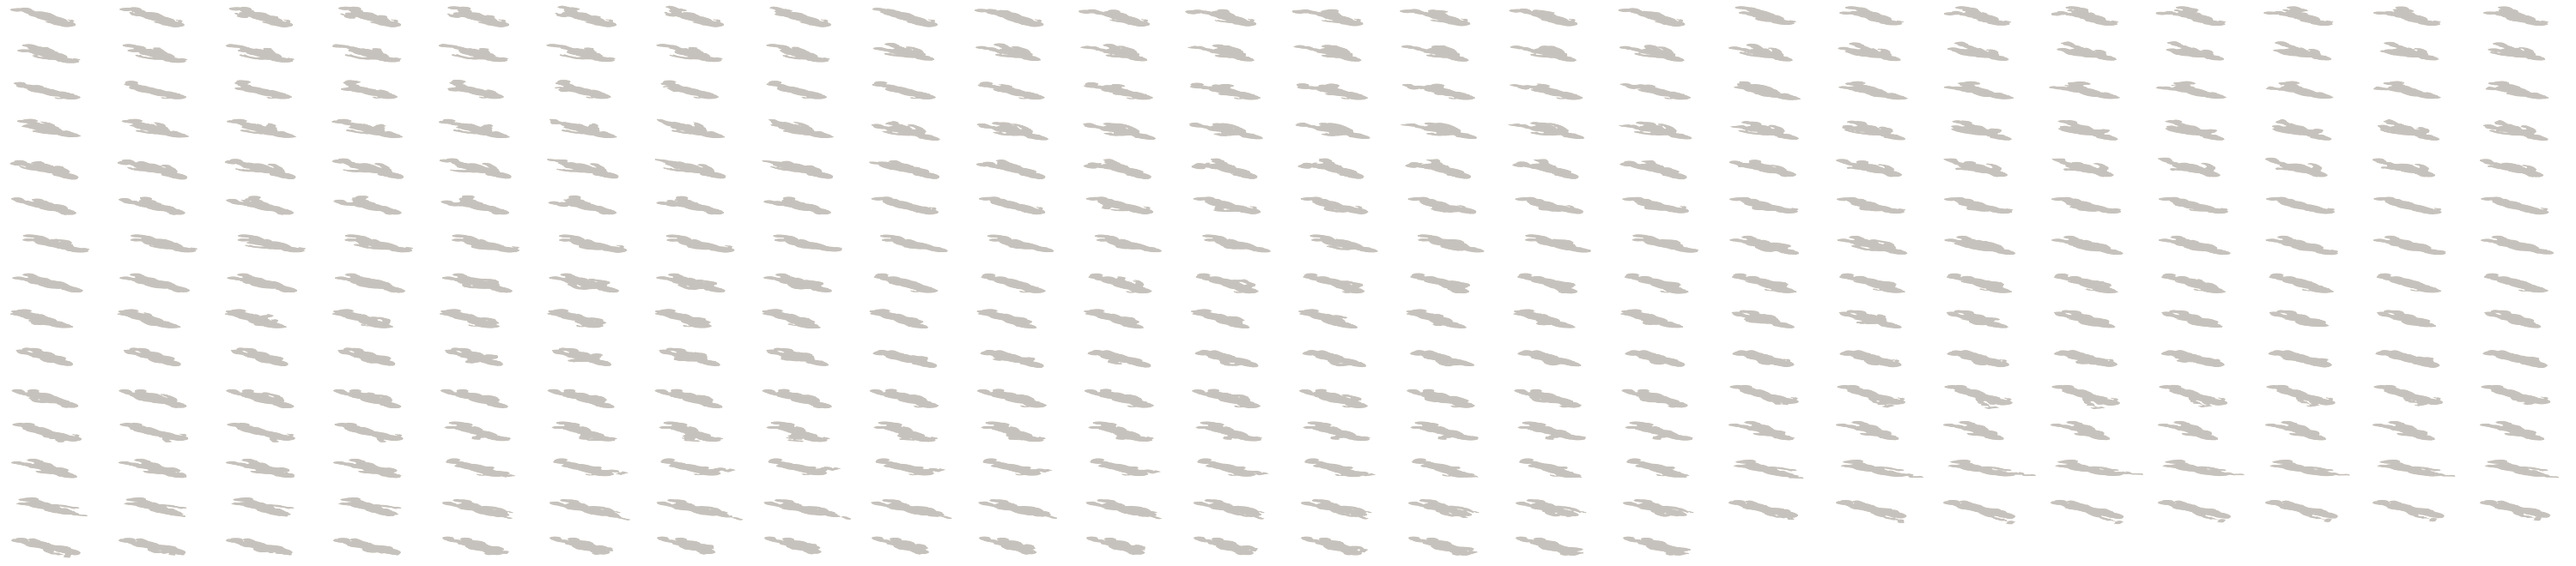
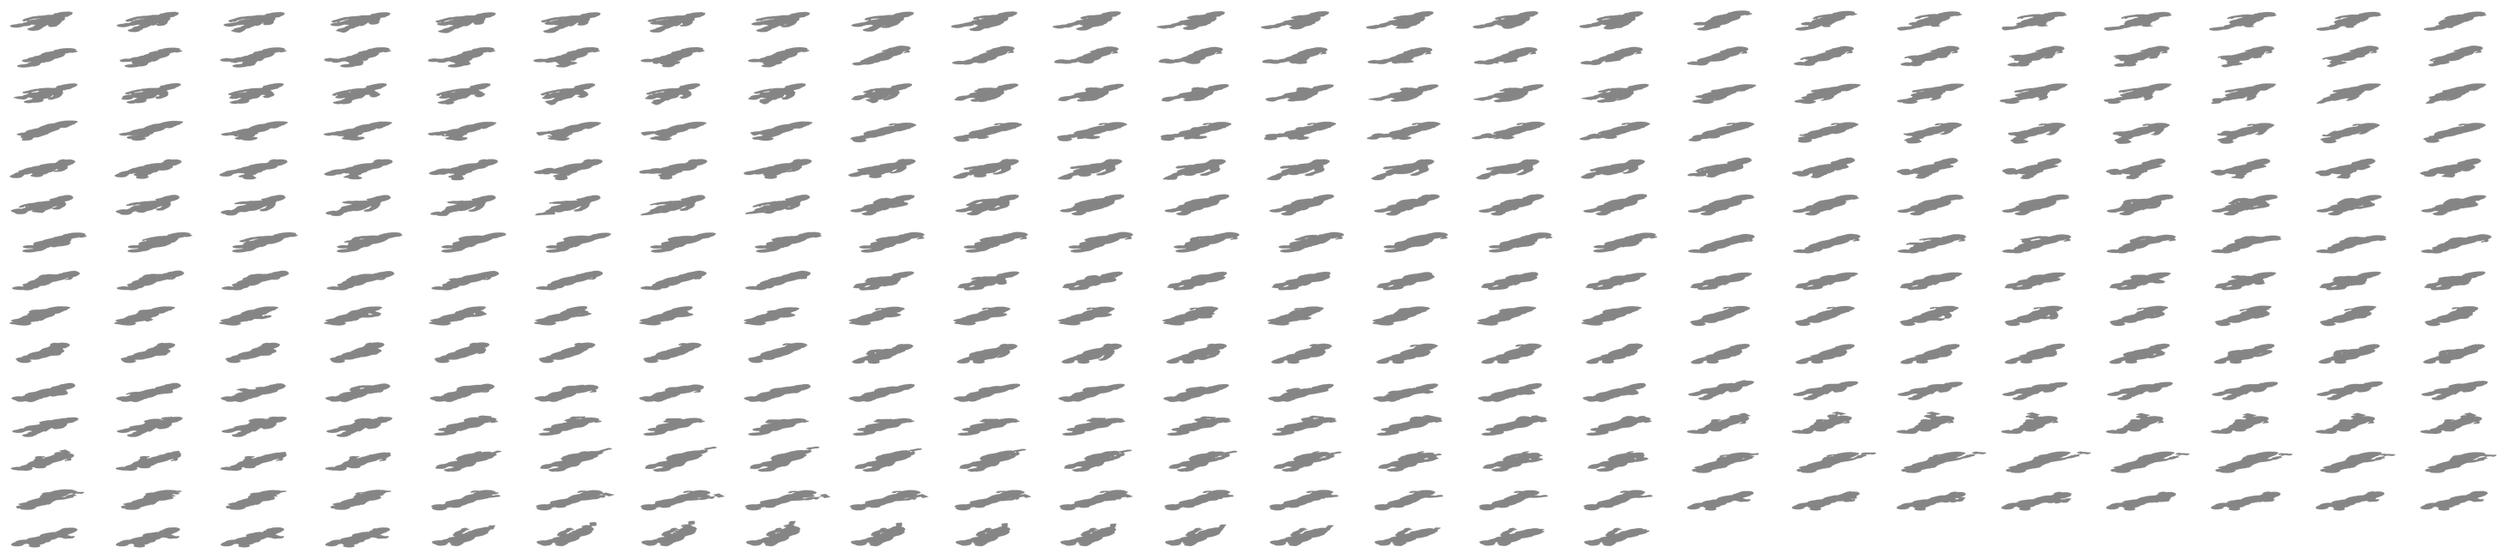
Align character shadows with shared building daylight

diff --git a/tools/art-pipeline/test/shadow-packing.test.ts b/tools/art-pipeline/test/shadow-packing.test.ts
@@ -1,0 +1,60 @@
+import { execFile } from 'node:child_process';
+import { mkdir, mkdtemp, readFile, rm, writeFile } from 'node:fs/promises';
+import os from 'node:os';
+import path from 'node:path';
+import { promisify } from 'node:util';
+import sharp from 'sharp';
+import { expect, it } from 'vitest';
+
+it('packs opaque silhouettes as black shadows at the shared opacity', async () => {
+  const run = await mkdtemp(path.join(os.tmpdir(), 'shadow-pack-'));
+  try {
+    const layout: Record<string, unknown> = {};
+    await mkdir(path.join(run, 'sprites'));
+    const source = await sharp({
+      create: { width: 768, height: 768, channels: 4, background: '#00000000' },
+    })
+      .composite([
+        {
+          input: await sharp({ create: { width: 80, height: 40, channels: 4, background: '#ffffff' } })
+            .png()
+            .toBuffer(),
+          left: 360,
+          top: 400,
+        },
+      ])
+      .png()
+      .toBuffer();
+    for (const clip of ['walk', 'idle']) {
+      for (const facing of ['SW', 'W', 'NW', 'N', 'NE', 'E', 'SE', 'S']) {
+        const name = `${clip}-${facing}`;
+        const directory = path.join(run, '.work/shadow-render', name);
+        await mkdir(directory, { recursive: true });
+        await writeFile(path.join(directory, 'inputs.json'), '{}');
+        await writeFile(path.join(directory, 'f00.png'), source);
+        await writeFile(path.join(run, 'sprites', `${name}-88px.png`), 'body hash fixture');
+        layout[name] = { box: { left: 206, top: 200, width: 100, height: 100 }, scale: 0.2 };
+      }
+    }
+    await writeFile(
+      path.join(run, 'recipe.json'),
+      JSON.stringify({ frames: 1, clips: [{ name: 'walk' }, { name: 'idle' }] }),
+    );
+    await writeFile(path.join(run, 'layout.json'), JSON.stringify(layout));
+    await promisify(execFile)('node', ['tools/art-pipeline/authoring/characters/pack-shadows.mjs', run]);
+    const pixels = await sharp(path.join(run, 'shadows/atlas.png')).ensureAlpha().raw().toBuffer();
+    let maxAlpha = 0;
+    for (let i = 0; i < pixels.length; i += 4) {
+      expect(pixels[i]).toBe(0);
+      expect(pixels[i + 1]).toBe(0);
+      expect(pixels[i + 2]).toBe(0);
+      maxAlpha = Math.max(maxAlpha, pixels[i + 3] ?? 0);
+    }
+    const profile = JSON.parse(await readFile('docs/art/lighting.json', 'utf8')) as {
+      shadow: { opacity: number };
+    };
+    expect(maxAlpha).toBe(Math.round(255 * profile.shadow.opacity));
+  } finally {
+    await rm(run, { recursive: true, force: true });
+  }
+});

diff --git a/tools/art-pipeline/test/shadow-lighting.test.ts b/tools/art-pipeline/test/shadow-lighting.test.ts
@@ -1,0 +1,43 @@
+import { execFile } from 'node:child_process';
+import { promisify } from 'node:util';
+import { expect, it } from 'vitest';
+
+const execute = promisify(execFile);
+
+it('matches the accepted building light across actor and building cameras', async () => {
+  const { stdout } = await execute('python3', [
+    '-c',
+    `
+import sys,math,json
+sys.path.insert(0,'tools/art-pipeline/authoring/shared')
+from shadow_lighting import load_lighting,incoming_for_camera,screen_shadow_offset
+profile=load_lighting()
+results=[]
+for elevation in [15,28.5,45]:
+ for azimuth in [-22.5,0,22.5,90]:
+  e,a=math.radians(elevation),math.radians(azimuth)
+  r=(math.cos(a),math.sin(a),0)
+  u=(-math.sin(e)*math.sin(a),math.sin(e)*math.cos(a),math.cos(e))
+  x,y,z=incoming_for_camera(r,u,profile)
+  results.append([elevation,azimuth,x,y,z,(r[0]*x+r[1]*y)/u[2],-(u[0]*x+u[1]*y)/u[2]])
+print(json.dumps({'target':screen_shadow_offset(profile),'rays':results,'shadow':profile['shadow']}))
+`,
+  ]);
+  const result = JSON.parse(stdout) as {
+    target: number[];
+    rays: number[][];
+    shadow: { rgb: number[]; opacity: number };
+  };
+  expect(result.target[0]).toBeCloseTo(0.624286, 6);
+  expect(result.target[1]).toBeCloseTo(-0.212436, 6);
+  for (const ray of result.rays) {
+    expect(ray[5]).toBeCloseTo(result.target[0] ?? 0, 10);
+    expect(ray[6]).toBeCloseTo(result.target[1] ?? 0, 10);
+    expect(ray[4]).toBe(-1);
+  }
+  const reference = result.rays.find((ray) => ray[0] === 28.5 && ray[1] === 22.5);
+  expect(reference?.[2]).toBeCloseTo(5 / 14, 10);
+  expect(reference?.[3]).toBeCloseTo(8 / 14, 10);
+  expect(result.shadow.rgb).toEqual([0, 0, 0]);
+  expect(result.shadow.opacity).toBe(0.48);
+});

diff --git a/docs/art/buildings/tools/render-shadow.py b/docs/art/buildings/tools/render-shadow.py
@@ -9,6 +9,11 @@ import bpy
 from bpy_extras.object_utils import world_to_camera_view
 from mathutils import Matrix, Vector
 
+sys.path.insert(0, str(Path(__file__).resolve().parents[4] / 'tools/art-pipeline/authoring/shared'))
+from shadow_lighting import PROFILE_PATH, incoming_for_camera, load_lighting
+
+lighting = load_lighting()
+
 root = Path(sys.argv[sys.argv.index('--') + 1]).resolve()
 config = json.loads((root / 'calibration.json').read_text())
 manifest = json.loads((root / 'runtime.json').read_text())
@@ -55,14 +60,12 @@ for obj in list(scene.objects):
     if obj.type == 'LIGHT':
         bpy.data.objects.remove(obj, do_unlink=True)
 
-# Rotate daylight with the camera to preserve the same screen-space direction.
-light_rotation = Matrix.Rotation(math.radians(config.get('lightRotationDegrees', 0)), 3, 'Z')
-incoming = light_rotation @ Vector((5, 8, -14))
+incoming = Vector(incoming_for_camera(right, up, lighting))
 bpy.ops.object.light_add(type='SUN')
 sun = bpy.context.object
 sun.rotation_euler = incoming.to_track_quat('-Z', 'Y').to_euler()
 sun.data.energy = 2.0
-sun.data.angle = math.radians(9)
+sun.data.angle = math.radians(lighting['shadow']['sunAngularDiameterDegrees'])
 scene.world.use_nodes = True
 scene.world.node_tree.nodes['Background'].inputs[0].default_value = (.73, .77, .82, 1)
 scene.world.node_tree.nodes['Background'].inputs[1].default_value = .7
@@ -83,7 +86,7 @@ tree.interface.new_socket(name='Image', in_out='OUTPUT', socket_type='NodeSocket
 render = tree.nodes.new('CompositorNodeRLayers')
 set_alpha = tree.nodes.new('CompositorNodeSetAlpha')
 set_alpha.inputs['Type'].default_value = 'Apply Mask'
-set_alpha.inputs['Alpha'].default_value = .48
+set_alpha.inputs['Alpha'].default_value = lighting['shadow']['opacity']
 tree.links.new(render.outputs['Image'], set_alpha.inputs['Image'])
 composite = tree.nodes.new('NodeGroupOutput')
 tree.links.new(set_alpha.outputs[0], composite.inputs[0])
@@ -97,8 +100,10 @@ report = {
     'shadowSha256': hashlib.sha256((root / 'shadow.png').read_bytes()).hexdigest(),
     'cameraElevationDegrees': 28.5,
     'sunIncomingDirection': list(incoming),
-    'sunAngularDiameterDegrees': 9,
-    'opacity': .48,
+    'lightingProfile': lighting['id'],
+    'lightingProfileSha256': hashlib.sha256(PROFILE_PATH.read_bytes()).hexdigest(),
+    'sunAngularDiameterDegrees': lighting['shadow']['sunAngularDiameterDegrees'],
+    'opacity': lighting['shadow']['opacity'],
     'samples': 32,
 }
 (root / 'render.json').write_text(json.dumps(report, indent=2) + '\n')

diff --git a/tools/art-pipeline/authoring/shared/shadow_lighting.py b/tools/art-pipeline/authoring/shared/shadow_lighting.py
@@ -1,0 +1,38 @@
+"""Shared cast-shadow projection, normalized by the caster's projected vertical height."""
+import json
+import math
+from pathlib import Path
+
+PROFILE_PATH = Path(__file__).resolve().parents[4] / 'docs/art/lighting.json'
+
+
+def load_lighting():
+    profile = json.loads(PROFILE_PATH.read_text())
+    if profile['version'] != 1:
+        raise ValueError('Unsupported world lighting profile')
+    return profile
+
+
+def screen_shadow_offset(profile):
+    reference = profile['reference']
+    elevation = math.radians(reference['cameraElevationDegrees'])
+    azimuth = math.radians(reference['cameraAzimuthDegrees'])
+    x, y, z = reference['sunIncomingDirection']
+    if z >= 0:
+        raise ValueError('Sun rays must point toward the ground')
+    ground_x, ground_y = x / -z, y / -z
+    right = math.cos(azimuth) * ground_x + math.sin(azimuth) * ground_y
+    down = math.sin(elevation) * (math.sin(azimuth) * ground_x - math.cos(azimuth) * ground_y)
+    return right / math.cos(elevation), down / math.cos(elevation)
+
+
+def incoming_for_camera(right, up, profile):
+    dx, dy = screen_shadow_offset(profile)
+    determinant = right[1] * up[0] - right[0] * up[1]
+    if abs(determinant) < 1e-8 or up[2] <= 0:
+        raise ValueError('Shadow export requires an elevated camera with visible verticals')
+    dx *= up[2]
+    dy *= up[2]
+    x = (-up[1] * dx - right[1] * dy) / determinant
+    y = (up[0] * dx + right[0] * dy) / determinant
+    return x, y, -1.0

diff --git a/tools/art-pipeline/authoring/characters/ground_shadow.py b/tools/art-pipeline/authoring/characters/ground_shadow.py
@@ -1,6 +1,12 @@
 """Directional projection of evaluated character geometry onto a flat ground receiver."""
+import sys
+from pathlib import Path
+
 import bpy
 from mathutils import Vector
+
+sys.path.insert(0, str(Path(__file__).resolve().parents[1] / "shared"))
+from shadow_lighting import incoming_for_camera, load_lighting
 
 
 class GroundShadow:
@@ -18,6 +24,8 @@ class GroundShadow:
         scene.camera.data.ortho_scale *= 1.5
         scene.render.resolution_x = round(scene.render.resolution_x * 1.5)
         scene.render.resolution_y = round(scene.render.resolution_y * 1.5)
+        basis = scene.camera.matrix_world.to_3x3()
+        self.ray = Vector(incoming_for_camera(basis @ Vector((1, 0, 0)), basis @ Vector((0, 1, 0)), load_lighting()))
         self.casters = [o for o in bpy.context.scene.objects if o.type == 'MESH' and not o.hide_render]
         self.projected = []
         self.material = bpy.data.materials.new('GroundShadow')
@@ -36,8 +44,7 @@ class GroundShadow:
             bpy.data.meshes.remove(mesh)
         self.projected = []
         graph = bpy.context.evaluated_depsgraph_get()
-        # Artistic daylight: world +X/-Y casts toward screen lower-right; independent of facing.
-        ray = Vector((0.65, -0.75, -1))
+        ray = self.ray
         for caster in self.casters:
             evaluated = caster.evaluated_get(graph)
             mesh = bpy.data.meshes.new_from_object(evaluated, depsgraph=graph)

diff --git a/tools/art-pipeline/authoring/characters/run-character.py b/tools/art-pipeline/authoring/characters/run-character.py
@@ -115,7 +115,7 @@ def main():
                     if stage == 'shadows':
                         options += ['--shadow-only']
                         dependencies = [value for value in options if isinstance(value, Path) and value.is_file()]
-                        dependencies += [recipe_file, run/'layout.json', *[p for p in SCRIPTS.glob('*.py') if p.name != 'run-character.py']]
+                        dependencies += [SCRIPTS.parent/'shared/shadow_lighting.py', SCRIPTS.parents[3]/'docs/art/lighting.json', recipe_file, run/'layout.json', *[p for p in SCRIPTS.glob('*.py') if p.name != 'run-character.py']]
                         if clip.get('equipment'):
                             config = run/clip['equipment']
                             dependencies.append(config.parent/json.loads(config.read_text())['model'])

diff --git a/docs/art/WORLD-STYLE.md b/docs/art/WORLD-STYLE.md
@@ -48,7 +48,7 @@ See [PIPELINE.md](buildings/PIPELINE.md) for geometry-drift limits and construct
 - Use readable material groups and selective detail. Avoid plastic shine, inflated toy roofs, lemon
   yellow glare, elaborate fantasy ornaments, glowing windows everywhere and blanket orange lighting.
 - Use a consistent elevated orthographic game view and light from upper left. Exact camera, world
-  scale, shadows and export settings still need engine calibration; do not measure them from AI pixels
+  scale and body export settings still need engine calibration; cast shadows follow the shared profile below. Do not measure settings from AI pixels
   and present them as original-game facts.
 - Terrain belongs to the same world. Keep grass/soil variation, stone size, vegetation and shore
   treatment coherent with the buildings. Leave quiet ground areas for people, goods and overlays.
@@ -58,6 +58,26 @@ See [PIPELINE.md](buildings/PIPELINE.md) for geometry-drift limits and construct
 These are artistic decisions based on the selected board and brief, not claims of historical or
 original-engine fidelity. A named gameplay function still requires a verified content join for
 production integration.
+
+## Shared cast-shadow lighting
+
+[lighting.json](lighting.json) is the numerical source for every new or regenerated cast shadow:
+buildings, characters, trees and props. Use the shared camera conversion in
+`tools/art-pipeline/authoring/shared/shadow_lighting.py`; do not choose a separate ray or opacity per asset.
+
+The accepted House 1 reference uses incoming sun direction `[5, 8, -14]`, camera elevation 28.5°
+and azimuth 22.5°. In image coordinates (+x right, +y down), a point 100 projected pixels above
+its ground contact casts its shadow **62.43 pixels right and 21.24 pixels up**: angle −18.79°.
+Camera conversion preserves this direction and length relative to projected height even when an
+exporter uses a different elevation or azimuth. Facing changes rotate the subject, not the daylight.
+Shadow colour is black `[0, 0, 0]`, maximum opacity 0.48, with a 9° sun for building renders.
+The character silhouette uses a fixed 0.55 source-output-pixel blur as a small-sprite approximation.
+These are own-art choices derived from the accepted building shadow, not original-engine facts.
+
+Review cast shadows together on terrain at ×2; painted surface shading and contact shading are
+separate effects. Current woodland cutouts have painted root/contact shading but no separate
+cast-shadow delivery. Adding their directional shadows requires its own geometry or reviewed source
+and must use this profile. Do not infer lighting consistency from that existing contact shading.
 
 ## Independent designs and reference roles
 
@@ -126,6 +146,6 @@ Before treating a new asset as ready:
   engine integration remain task-dependent. Use the relevant package contract for implementation.
 
 Still open: an assembled settlement reference scene, calibrated camera and relative scale,
-production resolutions/filtering/alpha/shadow conventions, and seamless terrain/transition design.
+production resolutions/filtering/alpha, remaining cast-shadow coverage, and seamless terrain/transition design.
 These do not reopen the muted A style selection. Do not start unrelated production integration merely
 because the visual direction has been chosen.

diff --git a/docs/art/buildings/tools/SHADOWS.md b/docs/art/buildings/tools/SHADOWS.md
@@ -11,9 +11,11 @@ measurements. Reproduce a shadow with Blender 5.2.1 LTS from the repository root
 /Applications/Blender.app/Contents/MacOS/Blender --background --python docs/art/buildings/tools/render-shadow.py -- docs/art/buildings/house-2/source/shadow-v1
 ```
 
-The retained geometry approximates the painted silhouette. Shared upper-left daylight, 9° sun and
-0.48 opacity are artistic choices, not recovered original-game lighting. Headquarters rotates both
-geometry and light to match its retained camera. Reference-image doorway measurements are manual
+The retained geometry approximates the painted silhouette. The exporter reads the shared [lighting profile](../../lighting.json) and converts its reference
+shadow direction for the actual camera, including headquarters. The 9° sun and 0.48 opacity are
+artistic choices, not recovered original-game lighting. Model rotation remains independent; legacy
+`lightRotationDegrees` no longer controls the ray. See the exact screen direction in
+[WORLD-STYLE.md](../../WORLD-STYLE.md#shared-cast-shadow-lighting). Reference-image doorway measurements are manual
 estimates. Body pixels, entrance anchors and scale remain unchanged; there is no added soil layer.
 House 1 retains the exact shadow pixels accepted in the initial comparison.
 

diff --git a/docs/tickets/character-cast-shadows.md b/docs/tickets/character-cast-shadows.md
@@ -7,7 +7,10 @@
 
 Five civilian appearances have retained model-derived shadow atlases and matching runtime/gallery
 support on `art/character-shadows`. Candidate builds preserve every delivered body pixel and all
-body layout, scale and animation metadata. Source hashes reject stale shadows after motion changes.
+body layout, scale and animation metadata. The shared lighting profile now matches the accepted
+building direction across exporter cameras, with black shadows at 0.48 opacity. Source hashes reject
+stale shadows after motion or lighting changes. Existing woodland has contact shading only; adding
+its separate cast shadows is outside this character delivery.
 
 Visually review the prepared family at zoom ×2 on Magiczny Las and in the animation gallery.
 After acceptance, record each candidate's presentation digest, publish the five character packages

diff --git a/docs/art/characters/PIPELINE.md b/docs/art/characters/PIPELINE.md
@@ -41,6 +41,11 @@ node tools/art-pipeline/authoring/characters/pack-shadows.mjs "$RUN"
 npm run art -- build "characters/$ID"
 ```
 
+The shared [lighting profile](../lighting.json) fixes direction, length and darkness to the accepted
+building shadow. The exporter converts it for the character camera; do not copy building world-space
+XYZ into a different camera. Profile and conversion-code hashes invalidate retained renders when
+lighting changes. See [world lighting](../WORLD-STYLE.md#shared-cast-shadow-lighting) for exact values.
+
 Each character operation in `asset.json` references `shadows/shadow.json`; a copy operation delivers
 its atlas as `shadow.png`. The shadow has independent cell dimensions and foot anchors but shares
 the body's frame ids and timing. Packing trims a common envelope without rescaling the silhouette.
